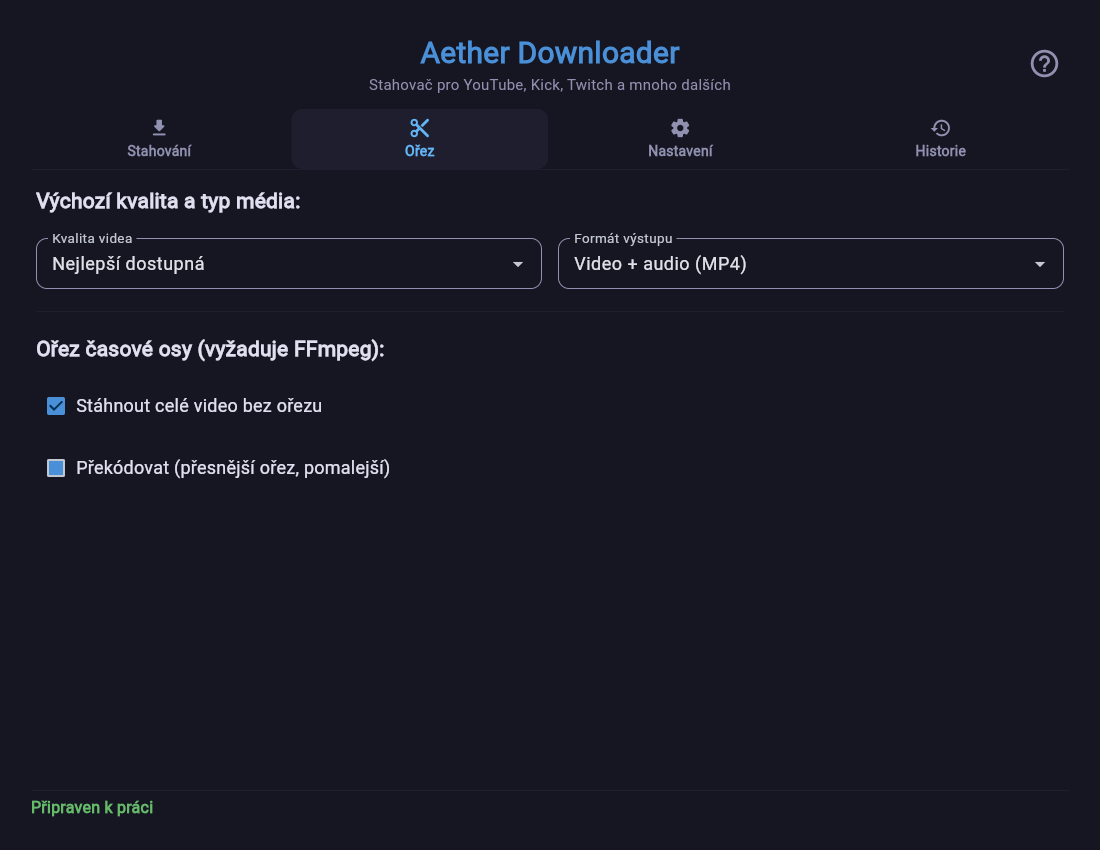
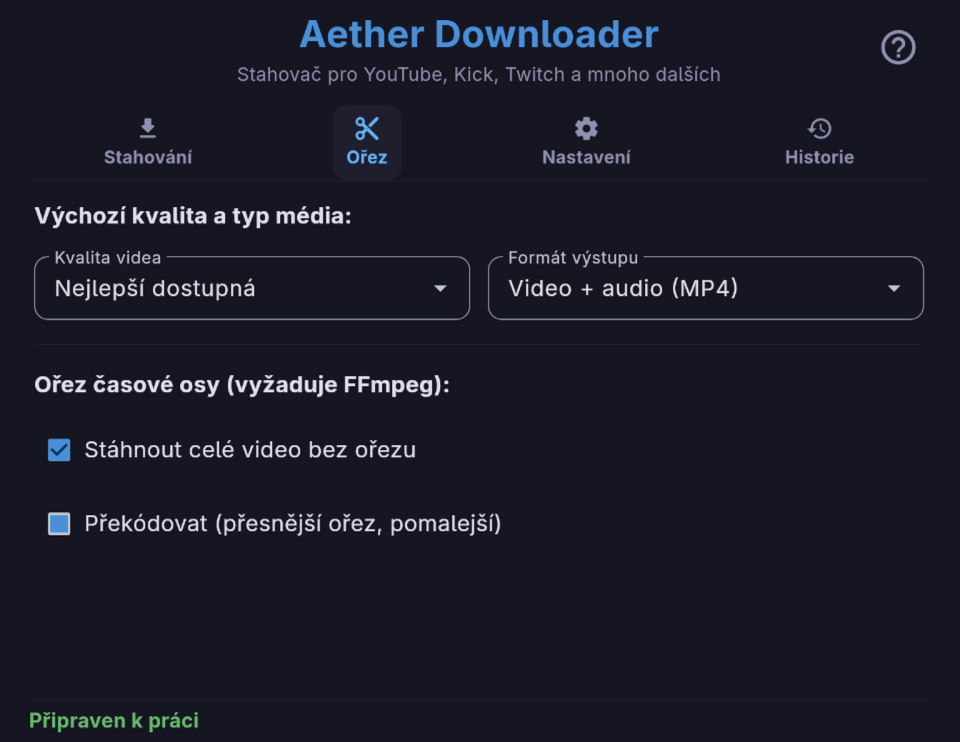
docs: README ukázky – screenshoty na plnou šířku (960x742)

diff --git a/README.md b/README.md
@@ -41,9 +41,11 @@ Podrobný postup pro konkrétní systém najdeš níže (Android viz [zde](#-and
 
 ## Ukázky
 
-| Stahování | Ořez a kvalita | Nastavení |
-|---|---|---|
-| ![Hlavní karta](docs/screenshots/download.png) | ![Ořez a kvalita](docs/screenshots/crop.png) | ![Nastavení](docs/screenshots/settings.png) |
+![Stahování](docs/screenshots/download.png)
+
+![Ořez a kvalita](docs/screenshots/crop.png)
+
+![Nastavení](docs/screenshots/settings.png)
 
 ---
 
